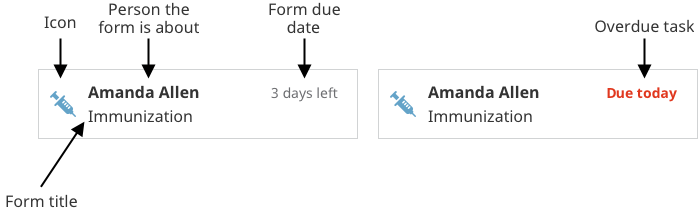
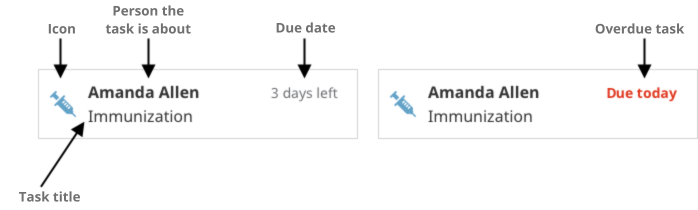
deploy: medic/cht-docs@180245ae055a8c4cb0e905bf60359a1651237843

diff --git a/design/best-practices/index.html b/design/best-practices/index.html
@@ -314,8 +314,8 @@ Auto<svg class="bi ms-auto d-none"><use href="#check2"/></svg></button></li></ul
 <label for=m-contributemediconboardingteam-meetings-check><a href=/contribute/medic/onboarding/team-meetings/ class="align-left pl-0 td-sidebar-link td-sidebar-link__page" id=m-contributemediconboardingteam-meetings><span>Team Meetings</span></a></label></li><li class="td-sidebar-nav__section-title td-sidebar-nav__section without-child" id=m-contributemediconboardingdaily-updates-li><input type=checkbox id=m-contributemediconboardingdaily-updates-check>
 <label for=m-contributemediconboardingdaily-updates-check><a href=/contribute/medic/onboarding/daily-updates/ class="align-left pl-0 td-sidebar-link td-sidebar-link__page" id=m-contributemediconboardingdaily-updates><span>Daily Updates</span></a></label></li></ul></li></ul></li></ul></li><li class="td-sidebar-nav__section-title td-sidebar-nav__section without-child" id=m-glossary-li><input type=checkbox id=m-glossary-check>
 <label for=m-glossary-check><a href=/glossary/ title="Glossary and Definitions" class="align-left pl-0 td-sidebar-link td-sidebar-link__page" id=m-glossary><span>Glossary</span></a></label></li></ul></li></ul></nav></div></aside><aside class="d-none d-xl-block col-xl-2 td-sidebar-toc d-print-none"><div class="td-page-meta ml-2 pb-1 pt-2 mb-0"><a href=https://github.com/medic/cht-docs/edit/main/content/en/design/best-practices/_index.md class=td-page-meta--edit target=_blank rel=noopener><i class="fa fa-edit fa-fw"></i> Edit this page</a>
-<a href="https://github.com/medic/cht-docs/issues/new?title=Improve+%27Configuration%20Best%20Practices%27&amp;labels=enhancement&amp;body=Page:+/design/best-practices/%0aVersion:+2024-09-12%2010:42:51%20+0300%20+0300%0a---" class=td-page-meta--issue target=_blank rel=noopener><i class="fab fa-github fa-fw"></i> Create documentation issue</a>
-<a href=https://github.com/medic/cht-core/issues/new class=td-page-meta--project-issue target=_blank rel=noopener><i class="fas fa-tasks fa-fw"></i> Create project issue</a></div><div class=td-toc><nav id=TableOfContents><ul><li><a href=#forms>Forms</a><ul><li><a href=#anatomy-of-a-task>Anatomy of a Task</a></li><li><a href=#anatomy-of-a-report>Anatomy of a Report</a></li><li><a href=#titles>Titles</a></li><li><a href=#icons>Icons</a></li><li><a href=#content-and-layout>Content and Layout</a></li><li><a href=#summary-page>Summary Page</a><ul><li><a href=#page-sections>Page Sections</a></li></ul></li></ul></li><li><a href=#condition-cards>Condition Cards</a><ul><li><a href=#configurable-elements>Configurable Elements</a></li><li><a href=#guidelines>Guidelines</a></li><li><a href=#design-considerations>Design Considerations</a></li></ul></li><li><a href=#targets>Targets</a><ul><li><a href=#guidelines-1>Guidelines</a></li></ul></li></ul></nav></div></aside><main class="col-12 col-md-9 col-xl-8 ps-md-5" role=main><nav aria-label=breadcrumb class=td-breadcrumbs><ol class=breadcrumb><li class=breadcrumb-item><a href=/design/>Design System</a></li><li class="breadcrumb-item active" aria-current=page>Best Practices</li></ol></nav><div class=td-content><h1>Configuration Best Practices</h1><div class=lead>This document covers the configuration best practices of forms, tasks, targets, and contact profiles when building your own community health app.</div><header class=article-meta></header><h2 id=forms>Forms<a class=td-heading-self-link href=#forms aria-label="Heading self-link"></a></h2><p>We use forms to build the <strong>Tasks</strong>, <strong>Care Guides</strong>, and <strong>Reports</strong> that take health workers through care protocols and provide decision support for their interactions with patients.</p><p>In this context, a form is any document with questions and blank spaces or selectable options for answers. Forms can be found in many parts of your app including the <strong>Tasks</strong>, <strong>People</strong>, and <strong>Reports</strong> tabs</p><p>While both Tasks and Reports are built with forms, there are key differences. Tasks are blank forms that need to be completed, while Reports are forms that have already been submitted. When a Task is completed and submitted, it automatically becomes a Report.</p><p><em>Note: The icons and titles that we choose for Tasks remain the same when they become Reports.</em></p><br><h3 id=anatomy-of-a-task>Anatomy of a Task<a class=td-heading-self-link href=#anatomy-of-a-task aria-label="Heading self-link"></a></h3><p>The <strong>Task</strong> tab shows a list of upcoming visits, follow-ups, or other tasks that need to be completed. When a task is finished, it will automatically clear from the <strong>Tasks</strong> list and move to <strong>Reports</strong>.</p><br><p><img src=img/anatomy-task.png alt="Anatomy of a Task"></p><br><p>Each Task has an icon on the left side which indicates what type of Task it is.<br>The first bold line of text is the name of the person or family that the Task is about.<br>The second line of text is the name of the Task.<br>The days left for the Task to be done is located in the upper right-hand corner.<br>If a Task is overdue, the due date will be red. Tasks are listed in order of due date.<br></p><br><h3 id=anatomy-of-a-report>Anatomy of a Report<a class=td-heading-self-link href=#anatomy-of-a-report aria-label="Heading self-link"></a></h3><br><p><img src=img/anatomy-report.png alt="Anatomy of a Report"></p><br><p>The first line of bold text is the name of the person whom the Report is about.<br>The second line of text is the title of the Report.<br>The third line of text is the hierarchy of place to which that person belongs.<br>In the upper right corner, a timestamp displays when the Report was submitted.</p><p>Reports are sorted by submission date, with the most recently submitted Reports at the top. If a Report is unread, the timestamp will be bold blue and there will be a horizontal blue line above it.</p><br><h3 id=titles>Titles<a class=td-heading-self-link href=#titles aria-label="Heading self-link"></a></h3><p>The patient’s name should not be included in the form title.</p><pre tabindex=0><code>❌ Don&#39;t do this: &#34;Beatrice Bass Delivery Follow-Up&#34;
+<a href="https://github.com/medic/cht-docs/issues/new?title=Improve+%27Configuration%20Best%20Practices%27&amp;labels=enhancement&amp;body=Page:+/design/best-practices/%0aVersion:+2024-10-01%2019:43:35%20+0530%20+0530%0a---" class=td-page-meta--issue target=_blank rel=noopener><i class="fab fa-github fa-fw"></i> Create documentation issue</a>
+<a href=https://github.com/medic/cht-core/issues/new class=td-page-meta--project-issue target=_blank rel=noopener><i class="fas fa-tasks fa-fw"></i> Create project issue</a></div><div class=td-toc><nav id=TableOfContents><ul><li><a href=#forms>Forms</a><ul><li><a href=#anatomy-of-a-task>Anatomy of a Task</a></li><li><a href=#anatomy-of-a-report>Anatomy of a Report</a></li><li><a href=#titles>Titles</a></li><li><a href=#icons>Icons</a></li><li><a href=#content-and-layout>Content and Layout</a></li><li><a href=#summary-page>Summary Page</a><ul><li><a href=#page-sections>Page Sections</a></li></ul></li></ul></li><li><a href=#condition-cards>Condition Cards</a><ul><li><a href=#configurable-elements>Configurable Elements</a></li><li><a href=#guidelines>Guidelines</a></li><li><a href=#design-considerations>Design Considerations</a></li></ul></li><li><a href=#targets>Targets</a><ul><li><a href=#guidelines-1>Guidelines</a></li></ul></li></ul></nav></div></aside><main class="col-12 col-md-9 col-xl-8 ps-md-5" role=main><nav aria-label=breadcrumb class=td-breadcrumbs><ol class=breadcrumb><li class=breadcrumb-item><a href=/design/>Design System</a></li><li class="breadcrumb-item active" aria-current=page>Best Practices</li></ol></nav><div class=td-content><h1>Configuration Best Practices</h1><div class=lead>This document covers the configuration best practices of forms, tasks, targets, and contact profiles when building your own community health app.</div><header class=article-meta></header><h2 id=forms>Forms<a class=td-heading-self-link href=#forms aria-label="Heading self-link"></a></h2><p>We use forms to build the <strong>Tasks</strong>, <strong>Care Guides</strong>, and <strong>Reports</strong> that take health workers through care protocols and provide decision support for their interactions with patients.</p><p>In this context, a form is any document with questions and blank spaces or selectable options for answers. Forms can be found in many parts of your app including the <strong>Tasks</strong>, <strong>People</strong>, and <strong>Reports</strong> tabs</p><p>While both Tasks and Reports are built with forms, there are key differences. Tasks are blank forms that need to be completed, while Reports are forms that have already been submitted. When a Task is completed and submitted, it automatically becomes a Report.</p><p><em>Note: The icons and titles that we choose for Tasks remain the same when they become Reports.</em></p><br><h3 id=anatomy-of-a-task>Anatomy of a Task<a class=td-heading-self-link href=#anatomy-of-a-task aria-label="Heading self-link"></a></h3><p>The <strong>Task</strong> tab shows a list of upcoming visits, follow-ups, or other tasks that need to be completed. When a task is finished, it will automatically clear from the <strong>Tasks</strong> list and move to <strong>Reports</strong>.</p><br><p><img src=img/anatomy-task.png alt="Anatomy of a Task"></p><br><p>Each Task has an icon on the left side which indicates what type of Task it is.<br>The first bold line of text is the name of the person or family that the Task is about.<br>The second line of text is the title of the Task.<br>The days left for the Task to be done is located in the upper right-hand corner.<br>If a Task is overdue, the due date will be red. Tasks are listed in order of due date.<br></p><br><h3 id=anatomy-of-a-report>Anatomy of a Report<a class=td-heading-self-link href=#anatomy-of-a-report aria-label="Heading self-link"></a></h3><br><p><img src=img/anatomy-report.png alt="Anatomy of a Report"></p><br><p>The first line of bold text is the name of the person whom the Report is about.<br>The second line of text is the title of the Report.<br>The third line of text is the hierarchy of place to which that person belongs.<br>In the upper right corner, a timestamp displays when the Report was submitted.</p><p>Reports are sorted by submission date, with the most recently submitted Reports at the top. If a Report is unread, the timestamp will be bold blue and there will be a horizontal blue line above it.</p><br><h3 id=titles>Titles<a class=td-heading-self-link href=#titles aria-label="Heading self-link"></a></h3><p>The patient’s name should not be included in the form title.</p><pre tabindex=0><code>❌ Don&#39;t do this: &#34;Beatrice Bass Delivery Follow-Up&#34;
 ✅ Do this instead: &#34;Delivery Follow-Up&#34;
 </code></pre><br><p>Avoid generic words like “Visit” or “Report”. Every form can be a Report and often involves a visit, so including these words in the title doesn’t help differentiate it from other forms.</p><pre tabindex=0><code>❌ Don&#39;t do this: &#34;Delivery Follow-up Visit&#34;
 ✅ Do this instead: &#34;Delivery Follow-Up&#34;
@@ -364,8 +364,8 @@ left generally by <code>&lt;ol style=”margin-left:1em”>&lt;/ol></code>. You 
         - On-time + Late = true, Didn’t happen = false
 </code></pre><ul><li>It’s not possible to total up forms from all household members or check to see if any family member had a form submitted this week and count that as the household being visited. If you want to count the households visited this month, you need a form submitted at the household level like a household visit form or a household survey form.</li><li>Denominator must be the same for both sides (e.g. kids in our immunization program). Can’t split it into kids &lt;2 yrs on one side and kids &lt;5 years on the other side.
 Bars must progress positively (ex. Visits completed, not visits missed)</li></ul><p><strong>Unique Considerations for Personas</strong></p><p>CHWs:</p><ul><li>Will be viewing on a mobile device; keep in mind the number of widgets you display</li><li>Information is related to their own individual achievement, not comparisons with peers or aggregates for their facility</li><li>May have a difficult time understanding percentages (however certain partners like LG still focus on % based targets and therefore it still needs to be included). Percentages are good for evaluating performance, but difficult to “act on” because depending on how many actions you have already done / left to do, it may not always be clear or possible to “achieve” a percentage goal.</li><li>Targets data is always up-to-date even when offline, but important to know when they’ve last synced and sent data to managers</li></ul><p>Managers:</p><ul><li>Could be viewing on desktop or mobile device; may be seeing widgets side-by-side</li><li>Want to view overall summary of CHW goals, may also have their own personal goals</li><li>Can only see widgets for which they have Report access</li><li>Understand, and need, percentage information in order to evaluate performance</li><li>Important to know how up-to-date the data is (will be addressed in a different feature for CHW last sync date)</li></ul><div class=section-index></div><style>.feedback--answer{display:inline-block}.feedback--answer-no{margin-left:1em}.feedback--response{display:none;margin-top:1em}.feedback--response__visible{display:block}</style><div class=d-print-none><h2 class=feedback--title>Feedback</h2><p class=feedback--question>Was this page helpful?</p><button class="btn btn-primary mb-4 feedback--answer feedback--answer-yes">Yes</button>
-<button class="btn btn-primary mb-4 feedback--answer feedback--answer-no">No</button><p class="feedback--response feedback--response-yes">Glad to hear it! Please <a href=https://github.com/medic/cht-docs/issues/new>tell us how we can improve</a>.</p><p class="feedback--response feedback--response-no">Sorry to hear that. Please <a href=https://github.com/medic/cht-docs/issues/new>tell us how we can improve</a>.</p></div><script>const yesButton=document.querySelector(".feedback--answer-yes"),noButton=document.querySelector(".feedback--answer-no"),yesResponse=document.querySelector(".feedback--response-yes"),noResponse=document.querySelector(".feedback--response-no"),disableButtons=()=>{yesButton.disabled=!0,noButton.disabled=!0},sendFeedback=e=>{if(typeof gtag!="function")return;gtag("event","page_helpful",{event_category:"Helpful",event_label:window.location.pathname,value:e})};yesButton.addEventListener("click",()=>{yesResponse.classList.add("feedback--response__visible"),disableButtons(),sendFeedback(100)}),noButton.addEventListener("click",()=>{noResponse.classList.add("feedback--response__visible"),disableButtons(),sendFeedback(0)})</script><br><br><div class="text-muted mt-5 pt-3 border-top">Last modified 12.09.2024: <a href=https://github.com/medic/cht-docs/commit/00c1c9bebdb68a2b46e76d3058b64ab238149b70>Rename to building and fix links (#1537) (00c1c9be)</a></div><div class="d-xl-none d-print-none meta-links"><div class="td-page-meta ml-2 pb-1 pt-2 mb-0"><a href=https://github.com/medic/cht-docs/edit/main/content/en/design/best-practices/_index.md class=td-page-meta--edit target=_blank rel=noopener><i class="fa fa-edit fa-fw"></i> Edit this page</a>
-<a href="https://github.com/medic/cht-docs/issues/new?title=Improve+%27Configuration%20Best%20Practices%27&amp;labels=enhancement&amp;body=Page:+/design/best-practices/%0aVersion:+2024-09-12%2010:42:51%20+0300%20+0300%0a---" class=td-page-meta--issue target=_blank rel=noopener><i class="fab fa-github fa-fw"></i> Create documentation issue</a>
+<button class="btn btn-primary mb-4 feedback--answer feedback--answer-no">No</button><p class="feedback--response feedback--response-yes">Glad to hear it! Please <a href=https://github.com/medic/cht-docs/issues/new>tell us how we can improve</a>.</p><p class="feedback--response feedback--response-no">Sorry to hear that. Please <a href=https://github.com/medic/cht-docs/issues/new>tell us how we can improve</a>.</p></div><script>const yesButton=document.querySelector(".feedback--answer-yes"),noButton=document.querySelector(".feedback--answer-no"),yesResponse=document.querySelector(".feedback--response-yes"),noResponse=document.querySelector(".feedback--response-no"),disableButtons=()=>{yesButton.disabled=!0,noButton.disabled=!0},sendFeedback=e=>{if(typeof gtag!="function")return;gtag("event","page_helpful",{event_category:"Helpful",event_label:window.location.pathname,value:e})};yesButton.addEventListener("click",()=>{yesResponse.classList.add("feedback--response__visible"),disableButtons(),sendFeedback(100)}),noButton.addEventListener("click",()=>{noResponse.classList.add("feedback--response__visible"),disableButtons(),sendFeedback(0)})</script><br><br><div class="text-muted mt-5 pt-3 border-top">Last modified 01.10.2024: <a href=https://github.com/medic/cht-docs/commit/180245ae055a8c4cb0e905bf60359a1651237843>fix(#827): Change source of text from form to task (#1581) (180245ae)</a></div><div class="d-xl-none d-print-none meta-links"><div class="td-page-meta ml-2 pb-1 pt-2 mb-0"><a href=https://github.com/medic/cht-docs/edit/main/content/en/design/best-practices/_index.md class=td-page-meta--edit target=_blank rel=noopener><i class="fa fa-edit fa-fw"></i> Edit this page</a>
+<a href="https://github.com/medic/cht-docs/issues/new?title=Improve+%27Configuration%20Best%20Practices%27&amp;labels=enhancement&amp;body=Page:+/design/best-practices/%0aVersion:+2024-10-01%2019:43:35%20+0530%20+0530%0a---" class=td-page-meta--issue target=_blank rel=noopener><i class="fab fa-github fa-fw"></i> Create documentation issue</a>
 <a href=https://github.com/medic/cht-core/issues/new class=td-page-meta--project-issue target=_blank rel=noopener><i class="fas fa-tasks fa-fw"></i> Create project issue</a></div></div></div></main></div></div><footer class="td-footer row d-print-none"><div class=container-fluid><div class="row mx-md-2"><div class="td-footer__left col-6 col-sm-4 order-sm-1"></div><div class="td-footer__right col-6 col-sm-4 order-sm-3"></div><div class="td-footer__center col-12 col-sm-4 py-2 order-sm-2"><span class=td-footer__copyright>&copy;
 2024
 <span class=td-footer__authors>CHT</span></span><span class=td-footer__all_rights_reserved>All Rights Reserved</span><span class=ms-2><a href="https://docs.google.com/document/d/1MaI1rgYMNyCZF2eEjBuvnBDoCYHDKlx4k_N5pkDiWu8/edit?usp=sharing" target=_blank rel=noopener>Privacy Policy</a></span></div></div></div></footer></div><script src=/js/main.min.67106435b48bd4be8da89992919b230eaa1fd426e8856556b88a03a942114880.js integrity="sha256-ZxBkNbSL1L6NqJmSkZsjDqof1CbohWVWuIoDqUIRSIA=" crossorigin=anonymous></script><script defer src=/js/click-to-copy.min.73478a7d4807698aed7e355eb23f9890ca18fea3158604c8471746d046702bad.js integrity="sha256-c0eKfUgHaYrtfjVesj+YkMoY/qMVhgTIRxdG0EZwK60=" crossorigin=anonymous></script><script src=/js/tabpane-persist.js></script></body></html>

diff --git a/building/features/tasks/index.html b/building/features/tasks/index.html
@@ -314,14 +314,14 @@ Auto<svg class="bi ms-auto d-none"><use href="#check2"/></svg></button></li></ul
 <label for=m-contributemediconboardingteam-meetings-check><a href=/contribute/medic/onboarding/team-meetings/ class="align-left pl-0 td-sidebar-link td-sidebar-link__page" id=m-contributemediconboardingteam-meetings><span>Team Meetings</span></a></label></li><li class="td-sidebar-nav__section-title td-sidebar-nav__section without-child" id=m-contributemediconboardingdaily-updates-li><input type=checkbox id=m-contributemediconboardingdaily-updates-check>
 <label for=m-contributemediconboardingdaily-updates-check><a href=/contribute/medic/onboarding/daily-updates/ class="align-left pl-0 td-sidebar-link td-sidebar-link__page" id=m-contributemediconboardingdaily-updates><span>Daily Updates</span></a></label></li></ul></li></ul></li></ul></li><li class="td-sidebar-nav__section-title td-sidebar-nav__section without-child" id=m-glossary-li><input type=checkbox id=m-glossary-check>
 <label for=m-glossary-check><a href=/glossary/ title="Glossary and Definitions" class="align-left pl-0 td-sidebar-link td-sidebar-link__page" id=m-glossary><span>Glossary</span></a></label></li></ul></li></ul></nav></div></aside><aside class="d-none d-xl-block col-xl-2 td-sidebar-toc d-print-none"><div class="td-page-meta ml-2 pb-1 pt-2 mb-0"><a href=https://github.com/medic/cht-docs/edit/main/content/en/building/features/tasks/_index.md class=td-page-meta--edit target=_blank rel=noopener><i class="fa fa-edit fa-fw"></i> Edit this page</a>
-<a href="https://github.com/medic/cht-docs/issues/new?title=Improve+%27Tasks%27&amp;labels=enhancement&amp;body=Page:+/building/features/tasks/%0aVersion:+2024-09-12%2021:04:47%20+0300%20+0300%0a---" class=td-page-meta--issue target=_blank rel=noopener><i class="fab fa-github fa-fw"></i> Create documentation issue</a>
-<a href=https://github.com/medic/cht-core/issues/new class=td-page-meta--project-issue target=_blank rel=noopener><i class="fas fa-tasks fa-fw"></i> Create project issue</a></div><div class=td-toc><nav id=TableOfContents><ul><li><a href=#main-list>Main List</a></li><li><a href=#care-guides>Care Guides</a></li><li><a href=#household-tasks>Household Tasks</a></li><li><a href=#profile-page>Profile Page</a></li></ul></nav></div></aside><main class="col-12 col-md-9 col-xl-8 ps-md-5" role=main><nav aria-label=breadcrumb class=td-breadcrumbs><ol class=breadcrumb><li class=breadcrumb-item><a href=/building/>Building</a></li><li class=breadcrumb-item><a href=/building/features/>Features</a></li><li class="breadcrumb-item active" aria-current=page>Tasks</li></ol></nav><div class=td-content><h1>Tasks</h1><div class=lead>Ensuring that the right actions are taken for the right people at the right time</div><header class=article-meta></header><p>Tasks help CHWs plan their day by prompting them to complete follow-up visits and other activities. The list might include upcoming scheduled ANC or Immunization visits, treatment or referral follow-ups, or other required activities such as a household survey.</p><figure class="left col-3 col-lg-3"><a href=tasks-mobile.png><img src=/building/features/tasks/tasks-mobile.png></a></figure><figure class="left col-9 col-lg-9"><a href=tasks-desktop.png><img src=/building/features/tasks/tasks-desktop.png></a></figure><h2 id=main-list>Main List<a class=td-heading-self-link href=#main-list aria-label="Heading self-link"></a></h2><figure class="right col-6 col-lg-3"><a href=tasks-mobile.png><img src=/building/features/tasks/tasks-mobile.png></a></figure><p>On the Tasks tab is a consolidated list of tasks for all people and families that the user looks after. The task definition determines how long the task will show on this list before and after it is due.</p><p>Each task has an icon on the left side which indicates which type of task it is. The first bold line of text is the person or family that the task is about. The second line of text is the name of the task. The due date for the task is located in the upper right-hand corner. If a task is overdue, the due date will be red.</p><p>Tasks are listed in order of due date. Tasks that are past due will appear at the top of the list. CHWs should strive to complete tasks before they are overdue. Many programs add targets to track task completion and timeliness.</p><br clear=all><h2 id=care-guides>Care Guides<a class=td-heading-self-link href=#care-guides aria-label="Heading self-link"></a></h2><p>When a CHW clicks on a task, the care guide configured for that task displays. CHWs are then guided through questions for that specific workflow.</p><div class=container><div class=row><figure class="col-6 col-lg-3"><a href=tasks-care1.png><img src=/building/features/tasks/tasks-care1.png></a></figure><figure class="col-6 col-lg-3"><a href=tasks-care2.png><img src=/building/features/tasks/tasks-care2.png></a></figure><figure class="col-6 col-lg-3"><a href=tasks-care3.png><img src=/building/features/tasks/tasks-care3.png></a></figure><figure class="col-6 col-lg-3"><a href=tasks-care4.png><img src=/building/features/tasks/tasks-care4.png></a></figure></div></div><p>For more information on Care Guides, see the “<a href>Decision Support for Care Guides</a>” section of this overview.</p><p>When the user completes the care guide, the task will be cleared from the Tasks tab, and the report will be accessible from the Reports page or on the profile of the person or place whom the report is about.</p><h2 id=household-tasks>Household Tasks<a class=td-heading-self-link href=#household-tasks aria-label="Heading self-link"></a></h2><figure class="right col-6 col-lg-3"><img src=/building/features/tasks/tasks-household.png></figure><p>Alternatively, there is an option to configure Household Tasks. When this <a href=https://docs.communityhealthtoolkit.org/apps/reference/app-settings/user-permissions/>permission</a> is enabled, once a CHW has completed a task, they are taken to the Other Household Tasks page. This page shows the CHW all the additional outstanding tasks within the same household in which the initial task was completed.</p><p>CHWs are able to complete tasks directly from this page, or exit by tapping on the “X”. If the household has no additional tasks, they will return directly to the main task list.</p><h2 id=profile-page>Profile Page<a class=td-heading-self-link href=#profile-page aria-label="Heading self-link"></a></h2><figure class="right col-6 col-lg-3"><img src=/building/features/tasks/tasks-profile.png></figure><p>Tasks are also accessed from a the People tab in the app.</p><p>Tasks for a particular person or place can be viewed on the contact’s profile in the “Tasks” section. Filters allow you to choose how many tasks you’d like to view for each due date.</p><br clear=all><div class=section-index></div><h2 id=related-content>Related Content</h2><div class=section-index><hr class=panel-line><div class=entry><h5><a href=/building/reference/tasks/>Building >
+<a href="https://github.com/medic/cht-docs/issues/new?title=Improve+%27Tasks%27&amp;labels=enhancement&amp;body=Page:+/building/features/tasks/%0aVersion:+2024-10-01%2019:43:35%20+0530%20+0530%0a---" class=td-page-meta--issue target=_blank rel=noopener><i class="fab fa-github fa-fw"></i> Create documentation issue</a>
+<a href=https://github.com/medic/cht-core/issues/new class=td-page-meta--project-issue target=_blank rel=noopener><i class="fas fa-tasks fa-fw"></i> Create project issue</a></div><div class=td-toc><nav id=TableOfContents><ul><li><a href=#main-list>Main List</a></li><li><a href=#care-guides>Care Guides</a></li><li><a href=#household-tasks>Household Tasks</a></li><li><a href=#profile-page>Profile Page</a></li></ul></nav></div></aside><main class="col-12 col-md-9 col-xl-8 ps-md-5" role=main><nav aria-label=breadcrumb class=td-breadcrumbs><ol class=breadcrumb><li class=breadcrumb-item><a href=/building/>Building</a></li><li class=breadcrumb-item><a href=/building/features/>Features</a></li><li class="breadcrumb-item active" aria-current=page>Tasks</li></ol></nav><div class=td-content><h1>Tasks</h1><div class=lead>Ensuring that the right actions are taken for the right people at the right time</div><header class=article-meta></header><p>Tasks help CHWs plan their day by prompting them to complete follow-up visits and other activities. The list might include upcoming scheduled ANC or Immunization visits, treatment or referral follow-ups, or other required activities such as a household survey.</p><figure class="left col-3 col-lg-3"><a href=tasks-mobile.png><img src=/building/features/tasks/tasks-mobile.png></a></figure><figure class="left col-9 col-lg-9"><a href=tasks-desktop.png><img src=/building/features/tasks/tasks-desktop.png></a></figure><h2 id=main-list>Main List<a class=td-heading-self-link href=#main-list aria-label="Heading self-link"></a></h2><figure class="right col-6 col-lg-3"><a href=tasks-mobile.png><img src=/building/features/tasks/tasks-mobile.png></a></figure><p>On the Tasks tab is a consolidated list of tasks for all people and families that the user looks after. The task definition determines how long the task will show on this list before and after it is due.</p><p>Each task has an icon on the left side which indicates which type of task it is. The first bold line of text is the person or family that the task is about. The second line of text is the title of the task. The due date for the task is located in the upper right-hand corner. If a task is overdue, the due date will be red.</p><p>Tasks are listed in order of due date. Tasks that are past due will appear at the top of the list. CHWs should strive to complete tasks before they are overdue. Many programs add targets to track task completion and timeliness.</p><br clear=all><h2 id=care-guides>Care Guides<a class=td-heading-self-link href=#care-guides aria-label="Heading self-link"></a></h2><p>When a CHW clicks on a task, the care guide configured for that task displays. CHWs are then guided through questions for that specific workflow.</p><div class=container><div class=row><figure class="col-6 col-lg-3"><a href=tasks-care1.png><img src=/building/features/tasks/tasks-care1.png></a></figure><figure class="col-6 col-lg-3"><a href=tasks-care2.png><img src=/building/features/tasks/tasks-care2.png></a></figure><figure class="col-6 col-lg-3"><a href=tasks-care3.png><img src=/building/features/tasks/tasks-care3.png></a></figure><figure class="col-6 col-lg-3"><a href=tasks-care4.png><img src=/building/features/tasks/tasks-care4.png></a></figure></div></div><p>For more information on Care Guides, see the “<a href>Decision Support for Care Guides</a>” section of this overview.</p><p>When the user completes the care guide, the task will be cleared from the Tasks tab, and the report will be accessible from the Reports page or on the profile of the person or place whom the report is about.</p><h2 id=household-tasks>Household Tasks<a class=td-heading-self-link href=#household-tasks aria-label="Heading self-link"></a></h2><figure class="right col-6 col-lg-3"><img src=/building/features/tasks/tasks-household.png></figure><p>Alternatively, there is an option to configure Household Tasks. When this <a href=https://docs.communityhealthtoolkit.org/apps/reference/app-settings/user-permissions/>permission</a> is enabled, once a CHW has completed a task, they are taken to the Other Household Tasks page. This page shows the CHW all the additional outstanding tasks within the same household in which the initial task was completed.</p><p>CHWs are able to complete tasks directly from this page, or exit by tapping on the “X”. If the household has no additional tasks, they will return directly to the main task list.</p><h2 id=profile-page>Profile Page<a class=td-heading-self-link href=#profile-page aria-label="Heading self-link"></a></h2><figure class="right col-6 col-lg-3"><img src=/building/features/tasks/tasks-profile.png></figure><p>Tasks are also accessed from a the People tab in the app.</p><p>Tasks for a particular person or place can be viewed on the contact’s profile in the “Tasks” section. Filters allow you to choose how many tasks you’d like to view for each due date.</p><br clear=all><div class=section-index></div><h2 id=related-content>Related Content</h2><div class=section-index><hr class=panel-line><div class=entry><h5><a href=/building/reference/tasks/>Building >
 Reference >
 tasks.js</a></h5><p class=one-liner>Tasks: Definition of tasks shown to app users</p></div><div class=entry><h5><a href=/building/concepts/workflows/>Building >
 Concepts >
 Workflows</a></h5><p class=one-liner>Building connections between people, actions, and data systems</p></div></div><style>.feedback--answer{display:inline-block}.feedback--answer-no{margin-left:1em}.feedback--response{display:none;margin-top:1em}.feedback--response__visible{display:block}</style><div class=d-print-none><h2 class=feedback--title>Feedback</h2><p class=feedback--question>Was this page helpful?</p><button class="btn btn-primary mb-4 feedback--answer feedback--answer-yes">Yes</button>
-<button class="btn btn-primary mb-4 feedback--answer feedback--answer-no">No</button><p class="feedback--response feedback--response-yes">Glad to hear it! Please <a href=https://github.com/medic/cht-docs/issues/new>tell us how we can improve</a>.</p><p class="feedback--response feedback--response-no">Sorry to hear that. Please <a href=https://github.com/medic/cht-docs/issues/new>tell us how we can improve</a>.</p></div><script>const yesButton=document.querySelector(".feedback--answer-yes"),noButton=document.querySelector(".feedback--answer-no"),yesResponse=document.querySelector(".feedback--response-yes"),noResponse=document.querySelector(".feedback--response-no"),disableButtons=()=>{yesButton.disabled=!0,noButton.disabled=!0},sendFeedback=e=>{if(typeof gtag!="function")return;gtag("event","page_helpful",{event_category:"Helpful",event_label:window.location.pathname,value:e})};yesButton.addEventListener("click",()=>{yesResponse.classList.add("feedback--response__visible"),disableButtons(),sendFeedback(100)}),noButton.addEventListener("click",()=>{noResponse.classList.add("feedback--response__visible"),disableButtons(),sendFeedback(0)})</script><br><br><div class="text-muted mt-5 pt-3 border-top">Last modified 12.09.2024: <a href=https://github.com/medic/cht-docs/commit/84007b2b38c4697f3aee10d6b4785bf1668d4267>Remove extra alias bullet (#1541) (84007b2b)</a></div><div class="d-xl-none d-print-none meta-links"><div class="td-page-meta ml-2 pb-1 pt-2 mb-0"><a href=https://github.com/medic/cht-docs/edit/main/content/en/building/features/tasks/_index.md class=td-page-meta--edit target=_blank rel=noopener><i class="fa fa-edit fa-fw"></i> Edit this page</a>
-<a href="https://github.com/medic/cht-docs/issues/new?title=Improve+%27Tasks%27&amp;labels=enhancement&amp;body=Page:+/building/features/tasks/%0aVersion:+2024-09-12%2021:04:47%20+0300%20+0300%0a---" class=td-page-meta--issue target=_blank rel=noopener><i class="fab fa-github fa-fw"></i> Create documentation issue</a>
+<button class="btn btn-primary mb-4 feedback--answer feedback--answer-no">No</button><p class="feedback--response feedback--response-yes">Glad to hear it! Please <a href=https://github.com/medic/cht-docs/issues/new>tell us how we can improve</a>.</p><p class="feedback--response feedback--response-no">Sorry to hear that. Please <a href=https://github.com/medic/cht-docs/issues/new>tell us how we can improve</a>.</p></div><script>const yesButton=document.querySelector(".feedback--answer-yes"),noButton=document.querySelector(".feedback--answer-no"),yesResponse=document.querySelector(".feedback--response-yes"),noResponse=document.querySelector(".feedback--response-no"),disableButtons=()=>{yesButton.disabled=!0,noButton.disabled=!0},sendFeedback=e=>{if(typeof gtag!="function")return;gtag("event","page_helpful",{event_category:"Helpful",event_label:window.location.pathname,value:e})};yesButton.addEventListener("click",()=>{yesResponse.classList.add("feedback--response__visible"),disableButtons(),sendFeedback(100)}),noButton.addEventListener("click",()=>{noResponse.classList.add("feedback--response__visible"),disableButtons(),sendFeedback(0)})</script><br><br><div class="text-muted mt-5 pt-3 border-top">Last modified 01.10.2024: <a href=https://github.com/medic/cht-docs/commit/180245ae055a8c4cb0e905bf60359a1651237843>fix(#827): Change source of text from form to task (#1581) (180245ae)</a></div><div class="d-xl-none d-print-none meta-links"><div class="td-page-meta ml-2 pb-1 pt-2 mb-0"><a href=https://github.com/medic/cht-docs/edit/main/content/en/building/features/tasks/_index.md class=td-page-meta--edit target=_blank rel=noopener><i class="fa fa-edit fa-fw"></i> Edit this page</a>
+<a href="https://github.com/medic/cht-docs/issues/new?title=Improve+%27Tasks%27&amp;labels=enhancement&amp;body=Page:+/building/features/tasks/%0aVersion:+2024-10-01%2019:43:35%20+0530%20+0530%0a---" class=td-page-meta--issue target=_blank rel=noopener><i class="fab fa-github fa-fw"></i> Create documentation issue</a>
 <a href=https://github.com/medic/cht-core/issues/new class=td-page-meta--project-issue target=_blank rel=noopener><i class="fas fa-tasks fa-fw"></i> Create project issue</a></div></div></div></main></div></div><footer class="td-footer row d-print-none"><div class=container-fluid><div class="row mx-md-2"><div class="td-footer__left col-6 col-sm-4 order-sm-1"></div><div class="td-footer__right col-6 col-sm-4 order-sm-3"></div><div class="td-footer__center col-12 col-sm-4 py-2 order-sm-2"><span class=td-footer__copyright>&copy;
 2024
 <span class=td-footer__authors>CHT</span></span><span class=td-footer__all_rights_reserved>All Rights Reserved</span><span class=ms-2><a href="https://docs.google.com/document/d/1MaI1rgYMNyCZF2eEjBuvnBDoCYHDKlx4k_N5pkDiWu8/edit?usp=sharing" target=_blank rel=noopener>Privacy Policy</a></span></div></div></div></footer></div><script src=/js/main.min.67106435b48bd4be8da89992919b230eaa1fd426e8856556b88a03a942114880.js integrity="sha256-ZxBkNbSL1L6NqJmSkZsjDqof1CbohWVWuIoDqUIRSIA=" crossorigin=anonymous></script><script defer src=/js/click-to-copy.min.73478a7d4807698aed7e355eb23f9890ca18fea3158604c8471746d046702bad.js integrity="sha256-c0eKfUgHaYrtfjVesj+YkMoY/qMVhgTIRxdG0EZwK60=" crossorigin=anonymous></script><script src=/js/tabpane-persist.js></script></body></html>
